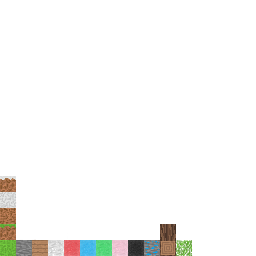
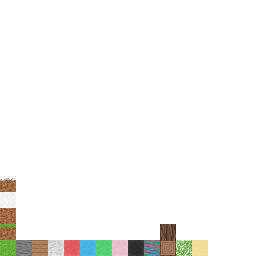
Add snowy mountains and sand

Changed region(s): [[0.75, 0.9375, 0.8125, 1.0], [0.0, 0.75, 0.0625, 0.8125], [0.0, 0.6875, 0.0625, 0.7188]]

diff --git a/Assets/Scripts/TerrainGenerator.cs b/Assets/Scripts/TerrainGenerator.cs
@@ -105,9 +105,15 @@ public class TerrainGenerator : MonoBehaviour
                         }
                         else if (!GetBlock(chunkX, chunkZ, x, z, y - 14))
                         {
-                            terrainChunk.blocks[x, y, z] = BlockType.Grass;
+                            if(y < 40)
+                                terrainChunk.blocks[x, y, z] = BlockType.Sand;
+                            else if (y > 60)
+                                terrainChunk.blocks[x, y, z] = BlockType.GrassSnow;
+                            else
+                                terrainChunk.blocks[x, y, z] = BlockType.Grass;
 
                             if (Random.Range(0, 200) < 1) {
+                                if(y >= 40)
                                 GenerateTree(terrainChunk, x, y, z);
                             }
                         }

diff --git a/Assets/Scripts/Block.cs b/Assets/Scripts/Block.cs
@@ -1,7 +1,7 @@
 using System.Collections.Generic;
 
 
-public enum BlockType { Air, WoolPink, Grass, Dirt, Stone, Wood, WoolWhite, WoolBlack, WoolBlue, WoolGreen, WoolRed, DiamondOre, WoodLog, Leaves }
+public enum BlockType { Air, WoolPink, Grass, Dirt, Stone, Wood, WoolWhite, WoolBlack, WoolBlue, WoolGreen, WoolRed, DiamondOre, WoodLog, Leaves, GrassSnow, Sand }
 
 
 public class Block
@@ -44,5 +44,7 @@ public class Block
         {BlockType.DiamondOre, new Block(TileType.DiamondOre)},
         {BlockType.WoodLog, new Block(TileType.WoodLogTop, TileType.WoodLogSide, TileType.WoodLogTop)},
         {BlockType.Leaves, new Block(TileType.Leaves)},
+        {BlockType.GrassSnow, new Block(TileType.GrassSnow, TileType.GrassSnowSide, TileType.Dirt)},
+        {BlockType.Sand, new Block(TileType.Sand)},
     };
 }

diff --git a/Assets/Scripts/Tile.cs b/Assets/Scripts/Tile.cs
@@ -2,7 +2,7 @@
 using UnityEngine;
 
 
-public enum TileType { Dirt, Grass, GrassSide, Stone, Wood, WoolWhite, WoolRed, WoolBlue, WoolGreen, WoolPink, WoolBlack, DiamondOre, WoodLogTop, WoodLogSide, Leaves }
+public enum TileType { Dirt, Grass, GrassSide, Stone, Wood, WoolWhite, WoolRed, WoolBlue, WoolGreen, WoolPink, WoolBlack, DiamondOre, WoodLogTop, WoodLogSide, Leaves, GrassSnow, GrassSnowSide, Sand }
 
 
 public class Tile
@@ -35,5 +35,8 @@ public class Tile
         {TileType.WoodLogTop, new Tile(10, 0)},
         {TileType.WoodLogSide, new Tile(10, 1)},
         {TileType.Leaves, new Tile(11, 0)},
+        {TileType.GrassSnow, new Tile(0, 3)},
+        {TileType.GrassSnowSide, new Tile(0, 4)},
+        {TileType.Sand, new Tile(12, 0)},
     };
 }
